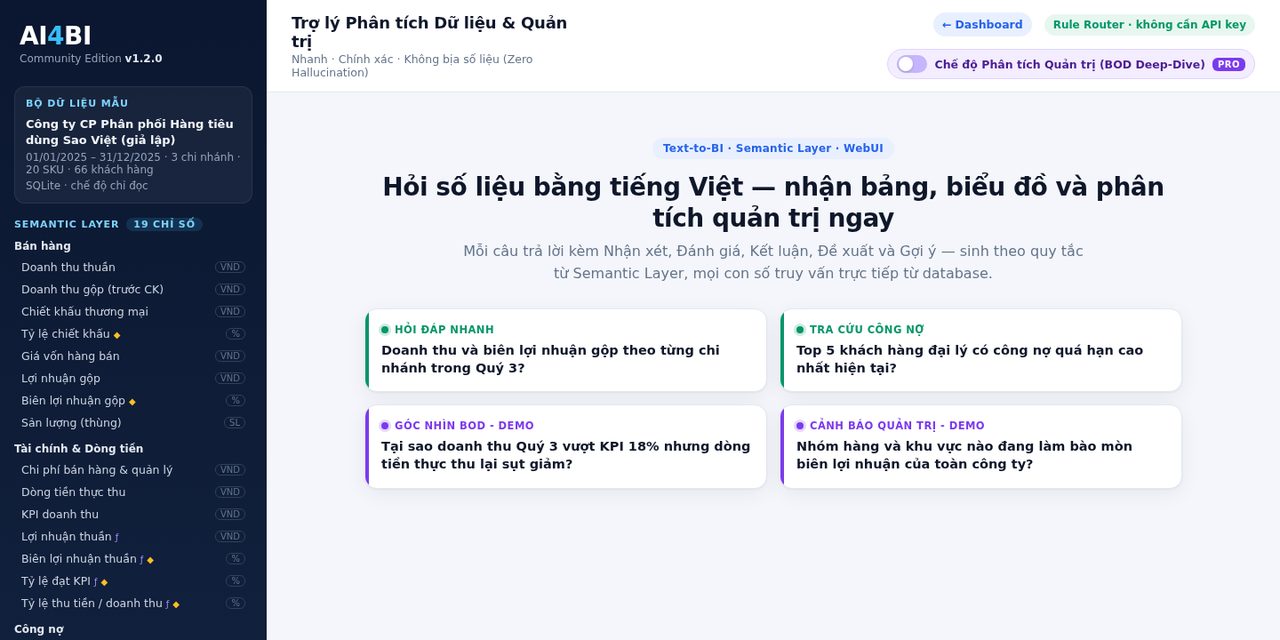
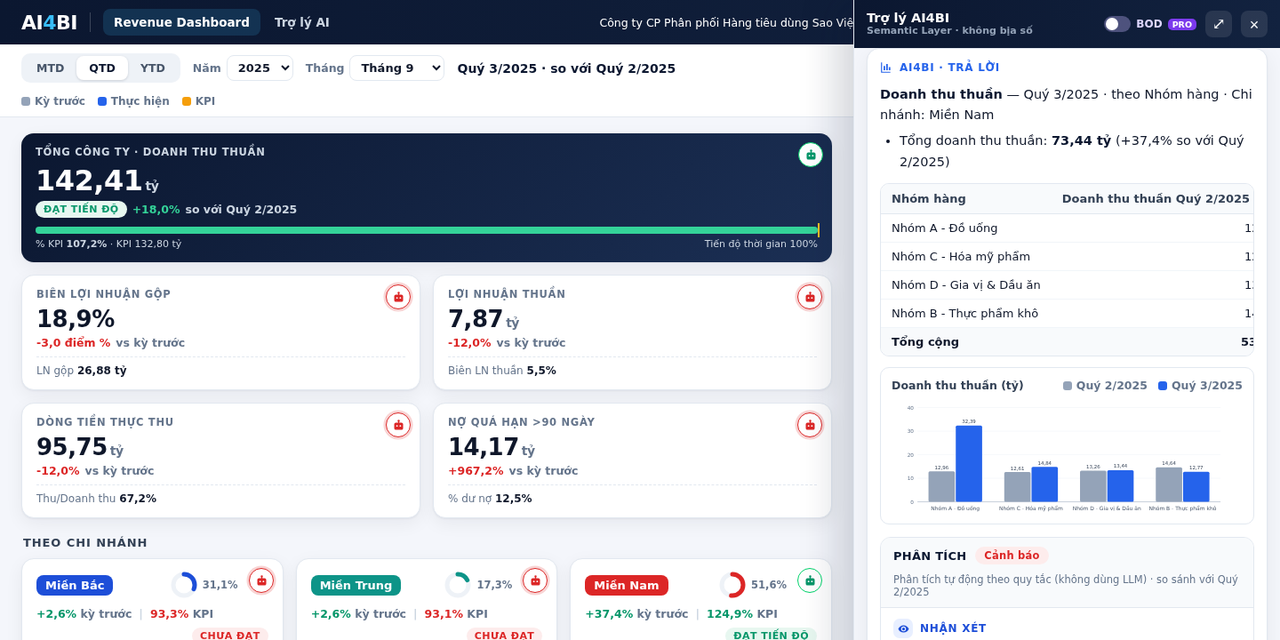
docs: cap nhat social preview v1.2, tam an link Live Demo, lien he qua email
- social_preview.png chup Dashboard + panel Tro ly AI (thay giao dien chat v1.0)
- capture_docs.py tao social preview tu trang Dashboard
- README: an nut Live Demo chua co link; Dat lich demo va Mua Pro tro ve email

diff --git a/tools/capture_docs.py b/tools/capture_docs.py
@@ -86,6 +86,10 @@ async def main() -> None:
         await dp.wait_for_timeout(900)
         await dp.screenshot(path=str(DOCS / "screenshot_dashboard_panel.png"))
         print("[capture] docs/screenshot_dashboard_panel.png")
+        # Social preview (1280x640): Dashboard + panel Trợ lý AI
+        social = await dp.screenshot(clip={"x": 0, "y": 0, "width": 1440, "height": 720})
+        Image.open(io.BytesIO(social)).convert("RGB").resize((1280, 640), Image.LANCZOS).save(DOCS / "social_preview.png")
+        print("[capture] docs/social_preview.png")
         await dp.close()
 
         # --- Trang Trợ lý AI
@@ -99,9 +103,6 @@ async def main() -> None:
             frames.extend([img] * hold)
 
         await grab(4)
-        social = await pg.screenshot(clip={"x": 0, "y": 0, "width": 1440, "height": 720})
-        Image.open(io.BytesIO(social)).convert("RGB").resize((1280, 640), Image.LANCZOS).save(DOCS / "social_preview.png")
-        print("[capture] docs/social_preview.png")
 
         async def ask(q: str, bod: bool = False):
             n = await pg.locator(".msg .card .meta").count()

diff --git a/README.md b/README.md
@@ -4,7 +4,6 @@
 
 **Dashboard quản trị và Trợ lý Phân tích dùng chung một lớp ngữ nghĩa: Nhanh, Chính xác, Không bịa số liệu (Zero Hallucination)**
 
-[![Live Demo](https://img.shields.io/badge/🚀_Trải_Nghiệm_Live_Demo-Click_Here-2ea44f?style=for-the-badge)](https://LINK-LIVE-DEMO-CUA-BAN)
 [![License: MIT](https://img.shields.io/badge/License-MIT-blue.svg?style=for-the-badge)](LICENSE)
 [![Enterprise Inquiry](https://img.shields.io/badge/🏢_Tư_Vấn_Triển_Khai_B2B-Liên_Hệ_Ngay-ff69b4?style=for-the-badge)](#-phiên-bản-pro--dịch-vụ-triển-khai-doanh-nghiệp-commercial)
 
@@ -54,7 +53,6 @@ Dữ liệu mẫu mô phỏng **công ty phân phối hàng tiêu dùng** (3 chi
 |---|---|
 | ![](docs/screenshot_descriptive.png) | ![](docs/screenshot_bod.png) |
 
-👉 **Dùng thử trực tiếp trên trình duyệt:** [Mở Live Demo](https://LINK-LIVE-DEMO-CUA-BAN)
 
 ---
 
@@ -163,12 +161,12 @@ Kiểm thử trước khi push: `pip install -r requirements-dev.txt && pytest -
 ## 💼 Phiên bản Pro & Dịch vụ Triển khai Doanh nghiệp (Commercial)
 
 - **📦 AI4BI Pro Boilerplate** — toàn bộ mã nguồn Frontend, Backend, kết nối đa database và phân quyền.
-  👉 [Mua quyền truy cập Private Repo](#)
+  👉 [Liên hệ mua quyền truy cập Private Repo](mailto:ai4bi.contact@gmail.com?subject=AI4BI%20Pro%20Boilerplate)
 - **🏢 Triển khai trọn gói (Turnkey B2B)** — đấu nối ERP / phần mềm kế toán / Data Warehouse, chuẩn hóa chỉ số cho BOD, triển khai On-Premise.
 
 📬 **Liên hệ:**
 - **Email:** [ai4bi.contact@gmail.com](mailto:ai4bi.contact@gmail.com)
-- **Đặt lịch demo 1-1 trên dữ liệu của bạn:** [Đăng ký tại đây](LINK-GOOGLE-FORM)
+- **Đặt lịch demo 1-1 trên dữ liệu của bạn:** [Gửi email đặt lịch](mailto:ai4bi.contact@gmail.com?subject=AI4BI%20-%20%C4%90%E1%BA%B7t%20l%E1%BB%8Bch%20demo%201-1)
 
 ---
 
